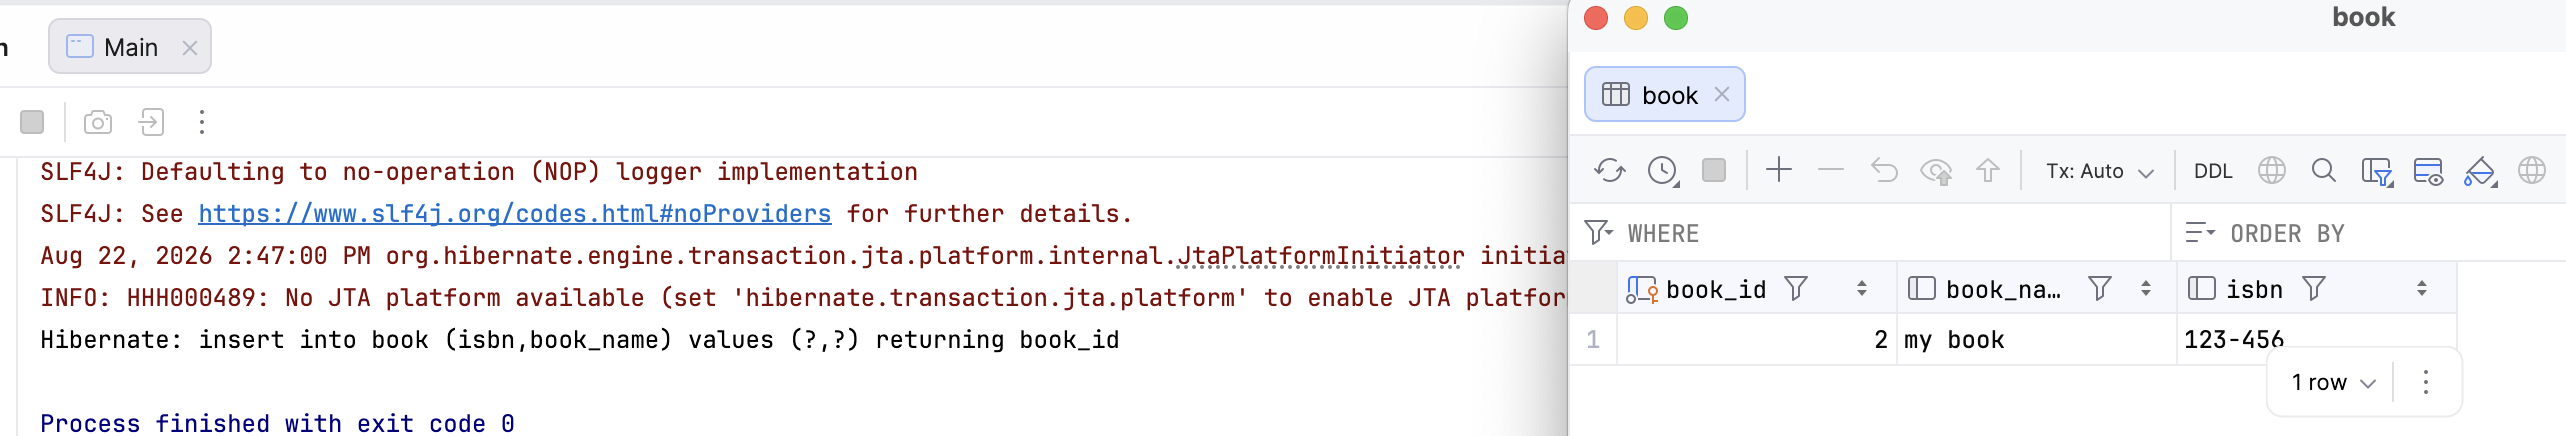
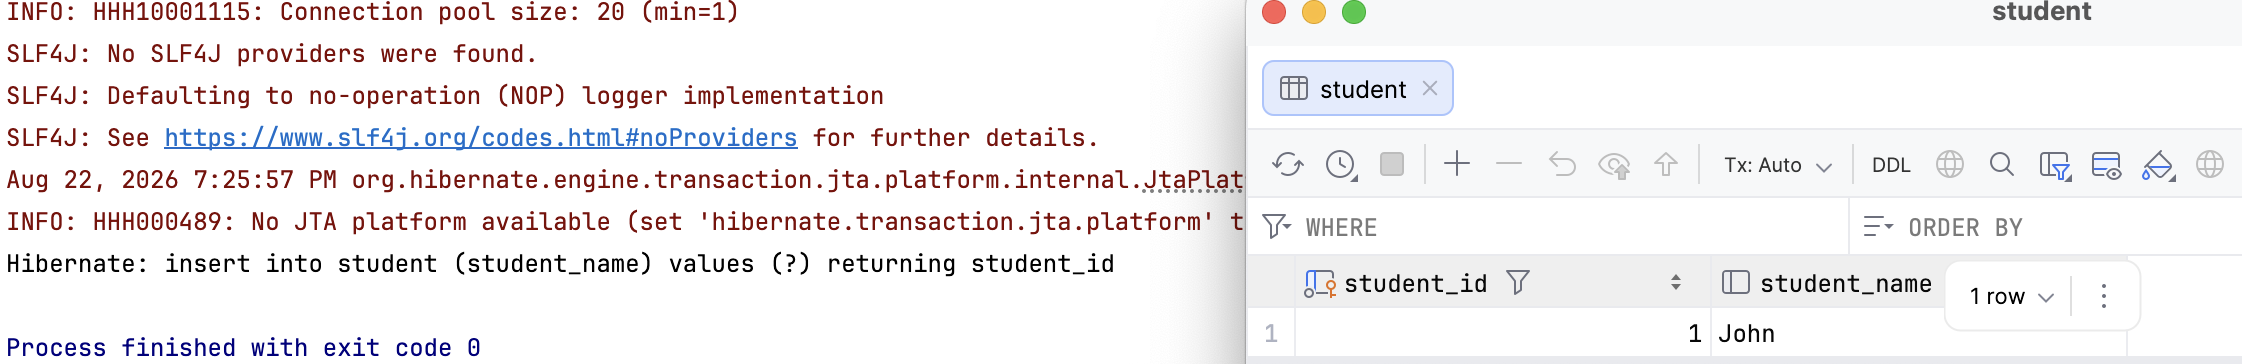
insertion to the student table

diff --git a/src/main/java/com/example/linkedinsamarakkody/jakarta/Main.java b/src/main/java/com/example/linkedinsamarakkody/jakarta/Main.java
@@ -1,7 +1,7 @@
 package com.example.linkedinsamarakkody.jakarta;
 
 
-import com.example.linkedinsamarakkody.jakarta.entities.Book;
+import com.example.linkedinsamarakkody.jakarta.entities.Student;
 import jakarta.persistence.EntityManager;
 import jakarta.persistence.EntityManagerFactory;
 import jakarta.persistence.EntityTransaction;
@@ -10,25 +10,24 @@ import jakarta.persistence.Persistence;
 public class
 Main {
     public static void main(String[] args) {
-        EntityManagerFactory emf = Persistence.createEntityManagerFactory("library_persistence_unit");
+        EntityManagerFactory emf = Persistence.createEntityManagerFactory("artclass_persistence_unit");
         EntityManager em = emf.createEntityManager();
 
         EntityTransaction tx = em.getTransaction();
 
         try {
-            tx.begin();
-            Book book = new Book();
-            book.setName("my book");
-            book.setIsbn("123-456");
+           tx.begin();
+           Student student = new Student();
+           student.setStudent_name("John");
 
-            em.persist(book);
-            tx.commit();
+           em.persist(student);
+           tx.commit();
 
-            }catch (Exception e) {
-            e.printStackTrace();
+           }catch (Exception e) {
+           e.printStackTrace();
 
             }finally {
-                em.close();
+            em.close();
             }
         }
 }

diff --git a/src/main/java/com/example/linkedinsamarakkody/jakarta/entities/Student.java b/src/main/java/com/example/linkedinsamarakkody/jakarta/entities/Student.java
@@ -1,0 +1,34 @@
+package com.example.linkedinsamarakkody.jakarta.entities;
+
+import jakarta.persistence.*;
+
+@Entity
+@Table(name = "student")
+public class Student {
+
+    @Id
+    @GeneratedValue(strategy = GenerationType.IDENTITY)
+    @Column(name = "student_id")
+    private Integer student_id;
+
+    @Column
+    private String student_name;
+
+    public Integer getStudent_id() {
+        return student_id;
+    }
+
+    public void setStudent_id(Integer student_id) {
+        this.student_id = student_id;
+    }
+
+    public String getStudent_name() {
+        return student_name;
+    }
+
+    public void setStudent_name(String student_name) {
+        this.student_name = student_name;
+    }
+
+
+}

diff --git a/src/main/java/com/example/linkedinsamarakkody/jakarta/entities/ArtClass.java b/src/main/java/com/example/linkedinsamarakkody/jakarta/entities/ArtClass.java
@@ -1,0 +1,23 @@
+package com.example.linkedinsamarakkody.jakarta.entities;
+
+import jakarta.persistence.*;
+
+@Entity
+@Table(name = "class")
+public class ArtClass {
+
+    @Id
+    @GeneratedValue(strategy = GenerationType.IDENTITY)
+    @Column(name = "class_id")
+    private Integer class_id;
+
+    @Column(name = "class_name")
+    private String class_name;
+
+    @Column(name = "day_of_week")
+    private String day_of_week;
+
+    @Column (name = "teacher_id")
+    private Integer teacher_id;
+
+}

diff --git a/src/main/java/com/example/linkedinsamarakkody/jakarta/entities/Review.java b/src/main/java/com/example/linkedinsamarakkody/jakarta/entities/Review.java
@@ -1,0 +1,22 @@
+package com.example.linkedinsamarakkody.jakarta.entities;
+
+import jakarta.persistence.*;
+
+@Entity
+@Table(name = "review")
+public class Review {
+
+    @Id
+    @GeneratedValue(strategy = GenerationType.IDENTITY)
+    @Column(name = "review_id")
+    private Integer review_id;
+
+    @Column(name = "teacher_id")
+    private Integer teacher_id;
+
+    @Column(name = "comment")
+    private String comment;
+
+    @Column
+    private Integer rating;
+}

diff --git a/src/main/java/com/example/linkedinsamarakkody/jakarta/entities/Teacher.java b/src/main/java/com/example/linkedinsamarakkody/jakarta/entities/Teacher.java
@@ -1,0 +1,17 @@
+package com.example.linkedinsamarakkody.jakarta.entities;
+
+import jakarta.persistence.*;
+
+
+@Entity
+@Table (name = "teacher")
+public class Teacher {
+
+    @Id
+    @GeneratedValue(strategy = GenerationType.IDENTITY)
+    @Column(name = "teacher_id")
+    private Integer teacher_id;
+
+    @Column
+    private String teacher_name;
+}
